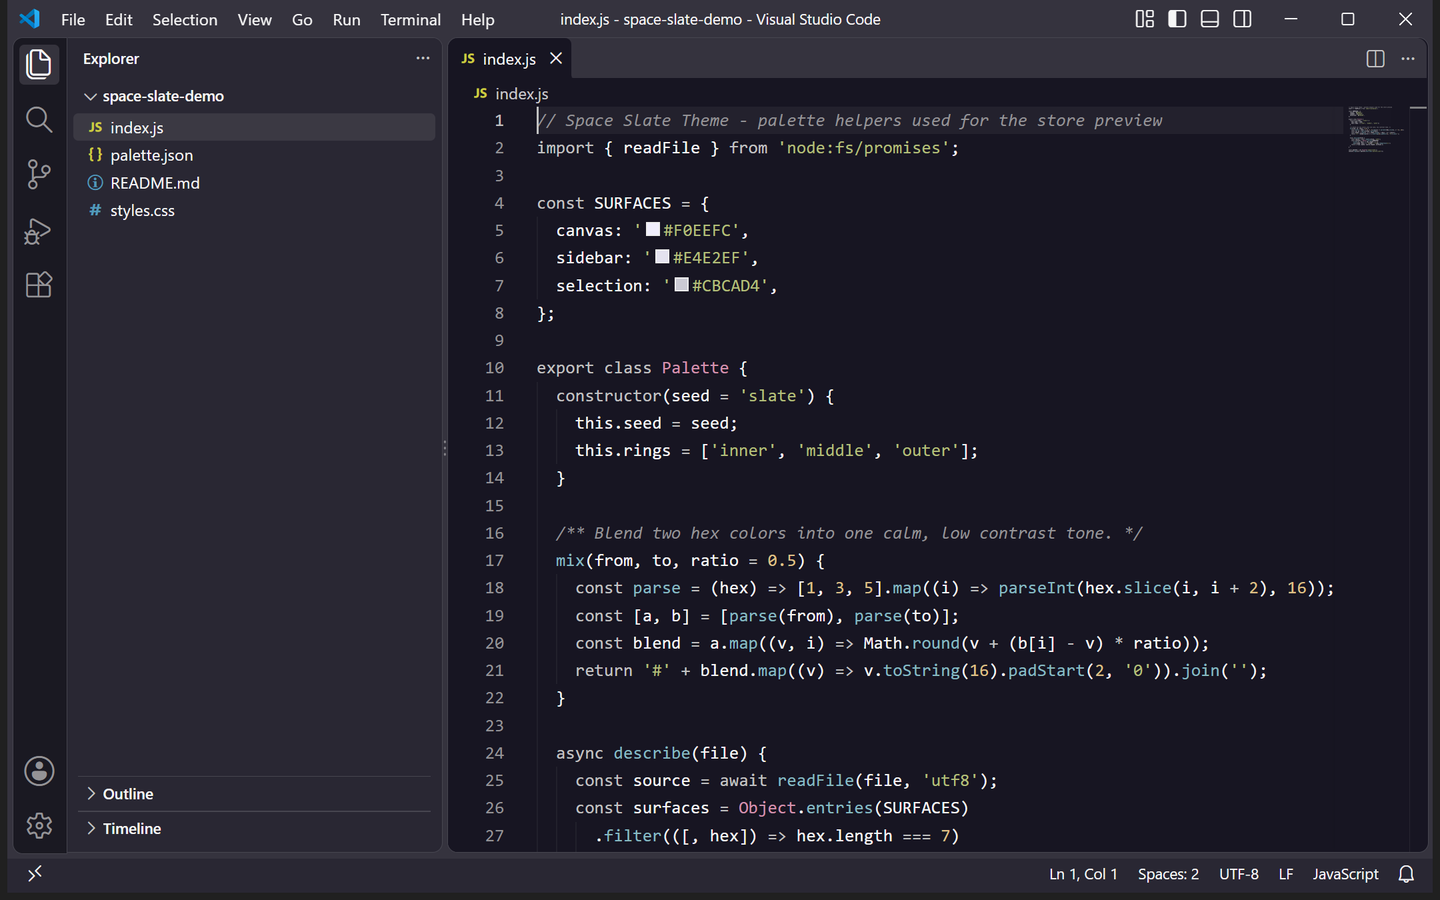
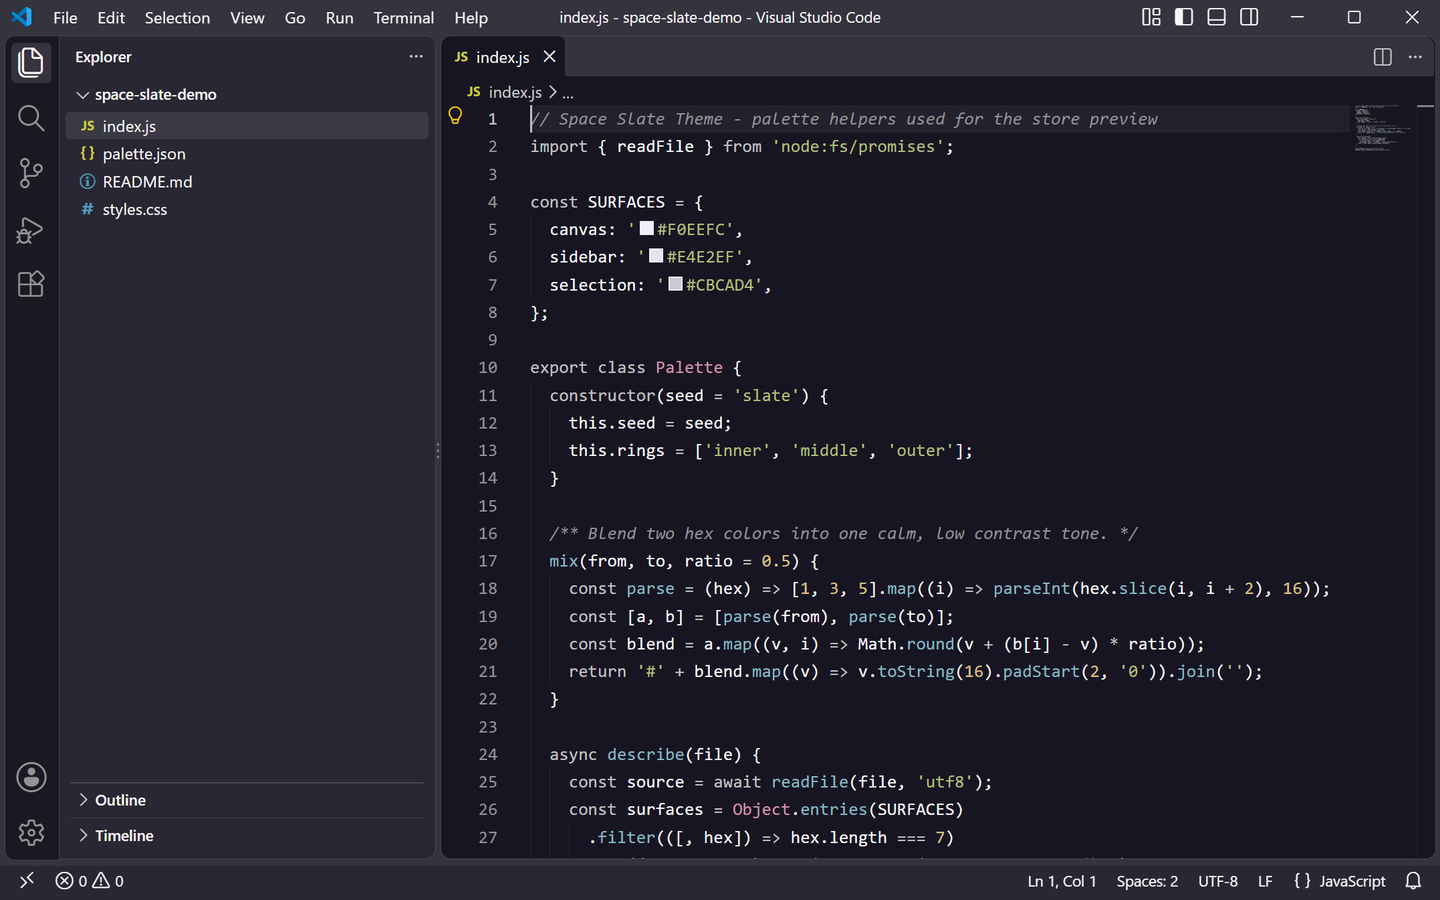
修正实机预览图的黑边并重新出图
- capture-real-screenshots.py 新增 frame_insets()：用 DwmGetWindowAttribute(DWMWA_EXTENDED_FRAME_BOUNDS) 求出 Windows 不可见调整边框的厚度（本机 150% DPI 下为左右 9px、下 9px、上 0）
- 窗口改为按「可见尺寸 + 边框厚度」设置大小，截图后先裁掉不可见边框，再额外裁 3 物理像素去掉系统绘制的 1px 深色边框线，最后缩放到 1440x900
- 两张实机预览图已重新捕获：边缘不再有 #202020 黑边，首/末行末列颜色即主题的标题栏色

diff --git a/scripts/capture-real-screenshots.py b/scripts/capture-real-screenshots.py
@@ -36,6 +36,9 @@ OUT_DIR = os.path.join(BASE, "store-assets", "screenshots", "en")
 TMP_DIR = os.path.join(BASE, ".tmp")
 
 WIDTH, HEIGHT = 1440, 900
+# Windows still draws a 1px dark frame line inside the visible frame bounds;
+# crop a few extra physical pixels so no dark outline survives the downscale.
+EXTRA_CROP = 3
 PUBLISHER = "lilinhuang"
 NAME = "space-slate-theme"
 VERSION = "1.0.0"
@@ -48,6 +51,9 @@ VARIANTS = [
 
 user32 = ctypes.WinDLL("user32", use_last_error=True)
 gdi32 = ctypes.WinDLL("gdi32", use_last_error=True)
+dwmapi = ctypes.WinDLL("dwmapi", use_last_error=True)
+
+DWMWA_EXTENDED_FRAME_BOUNDS = 9
 
 SW_RESTORE = 9
 SWP_NOZORDER = 0x0004
@@ -106,6 +112,9 @@ def declare_signatures():
     gdi32.GetDIBits.restype = ctypes.c_int
     gdi32.DeleteObject.argtypes = [wt.HGDIOBJ]
     gdi32.DeleteDC.argtypes = [wt.HDC]
+    dwmapi.DwmGetWindowAttribute.argtypes = [wt.HWND, wt.DWORD, ctypes.c_void_p,
+                                             wt.DWORD]
+    dwmapi.DwmGetWindowAttribute.restype = ctypes.c_long
 
 
 def make_dpi_aware():
@@ -162,6 +171,24 @@ def resize_window(hwnd, width, height):
     user32.ShowWindow(hwnd, SW_RESTORE)
     user32.SetWindowPos(hwnd, None, 0, 0, int(width), int(height),
                         SWP_NOZORDER | SWP_NOACTIVATE)
+
+
+def frame_insets(hwnd):
+    """Thickness of the invisible resize frame DWM paints as #202020.
+
+    GetWindowRect includes that frame; DWMWA_EXTENDED_FRAME_BOUNDS excludes it,
+    so the difference tells us how many pixels to crop off each side.
+    """
+    win = wt.RECT()
+    frame = wt.RECT()
+    if not user32.GetWindowRect(hwnd, ctypes.byref(win)):
+        return (0, 0, 0, 0)
+    hr = dwmapi.DwmGetWindowAttribute(hwnd, DWMWA_EXTENDED_FRAME_BOUNDS,
+                                      ctypes.byref(frame), ctypes.sizeof(frame))
+    if hr != 0:
+        return (0, 0, 0, 0)
+    return (max(0, frame.left - win.left), max(0, frame.top - win.top),
+            max(0, win.right - frame.right), max(0, win.bottom - frame.bottom))
 
 
 def print_window(hwnd):
@@ -309,7 +336,11 @@ def capture(variant, theme_label, marker):
     print(f"[{variant}] window: {title!r}")
 
     scale = (user32.GetDpiForWindow(hwnd) or 96) / 96.0
-    resize_window(hwnd, WIDTH * scale, HEIGHT * scale)
+    insets = frame_insets(hwnd)
+    print(f"[{variant}] dpi {scale:.2f}, frame insets {insets}")
+    # size the window so that the *visible* frame is exactly WIDTH x HEIGHT logical
+    resize_window(hwnd, WIDTH * scale + insets[0] + insets[2],
+                  HEIGHT * scale + insets[1] + insets[3])
     time.sleep(4.0)
 
     img = print_window(hwnd)
@@ -317,6 +348,14 @@ def capture(variant, theme_label, marker):
     if looks_empty(img):
         print(f"[{variant}] empty frame, falling back to screen grab")
         img = screen_grab(hwnd)
+    if any(insets):
+        left, top, right, bottom = insets
+        img = img.crop((left, top, img.width - right, img.height - bottom))
+        print(f"[{variant}] cropped the invisible frame -> {img.size}")
+    if EXTRA_CROP:
+        img = img.crop((EXTRA_CROP, EXTRA_CROP,
+                        img.width - EXTRA_CROP, img.height - EXTRA_CROP))
+        print(f"[{variant}] cropped the 1px OS frame line -> {img.size}")
     if img.size != (WIDTH, HEIGHT):
         img = img.resize((WIDTH, HEIGHT), Image.LANCZOS)
 
